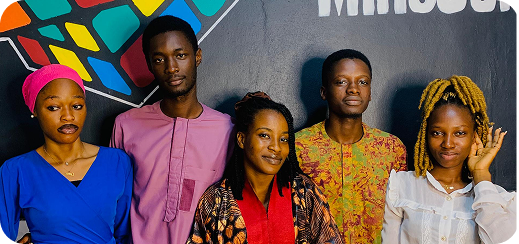
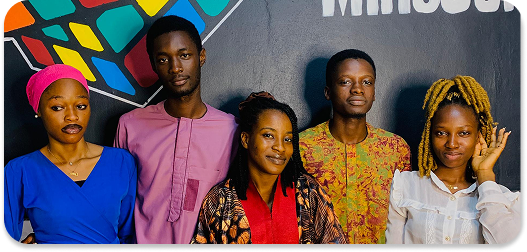
feat: added responsiveness to services page

diff --git a/src/services/services.css b/src/services/services.css
@@ -1,92 +1,238 @@
-body{
-    font-family: 'Palanquin Dark', sans-serif;
-    color: #333;
-    /* margin: 30px; */
-    margin-left: 20px;
-    padding-left: 20px;
+/* Import Palanquin fonts */
+@import url('https://fonts.googleapis.com/css2?family=Palanquin:wght@400;500;600;700&family=Palanquin+Dark:wght@400;500;600;700&display=swap');
+
+body {
+    margin: 0;
+    font-family: "Palanquin", sans-serif;
+    padding: 3rem 2rem;
+    background: #ffffff;
+    min-height: 100vh;
+    line-height: 1.6;
 }
-h1 {
+
+h1{
     color: #1E2551;
-    font-size: 40px;
+    font-family: "Palanquin Dark", sans-serif;
+    font-size: 64px;
+    font-weight: 400;
+    text-align: left;
+    /* align similarly to courses (keeps visual rhythm across pages) */
+    margin: 0 0 50px 150px;
+    text-shadow: 4px 5px 4px rgba(0, 0, 0, 0.3);
 }
-h1:hover {
+
+#main{
+    display: flex;
+    flex-direction: column;
+    gap: 50px;
+    max-width: 1800px;
+    margin: 0 auto;
+}
+
+/* Service sections */
+.section-1, .section-2 {
+    display: flex;
+    flex-direction: column;
+    gap: 20px;
+}
+
+
+.bootcamp, .student{
+    color: #000000;
+    font-family: "Palanquin Dark", sans-serif;
+    font-size: 32px;
+    font-weight: 400;
+    text-transform: uppercase;
+    margin-left: 150px;
+}
+
+/* .bootcamp:hover, .student:hover {
     text-decoration: underline;
     text-decoration-color: #1877F2;
     text-decoration-thickness: 3px;
-}   
-.service {
-    display: block;
-}
-/* ... */
-.bootcamp {
-    margin-left: 10px;
-}
-.bootcamp:hover {
-    text-decoration: underline;
-    text-decoration-color:#1877F2;
-    text-decoration-thickness: 2px;
-}
-.section-1 {
-    margin-top: 10px;
-}
-.block-1 {
+} */
+
+.block-1, .block-2 {
     display: flex;
-    gap: 30px;
+    gap: 0px;
+    align-items: flex-start;
+    margin: 0 150px;
 }
-.pic-1 {
-    background-color: #4985d4;
-    width: 370px;
-    height: 200px;
-    box-sizing: border-box;
+
+.pic-1, .pic-2 {
+    /* background-color: #4985d4; */
+    width: 80%;
+    height: 80%;
+    border-radius: 20px;
+    overflow: hidden;
+    /* box-shadow: 0px 8px 16px rgba(0, 0, 0, 0.2); */
+    transition: transform 0.3s ease;
+}
+
+.pic-1:hover, .pic-2:hover {
+    transform: translateY(-1px);
+}
+
+.pic-1 img, .pic-2 img {
+    width: 80%;
+    height: 80%;
+    object-fit: cover;
     border-radius: 20px;
 }
-.pic-1 img {
-    width: 370px;
-    height: 200px;
-    object-fit: cover; /* Makes sure the image fills the box and crops excess */
-    border-radius: 20px; /* Match the parent's border-radius */
+
+.text-1, .text-2 {
+    color: #333333;
+    font-family: "Palanquin", sans-serif;
+    font-size: 18px;
+    font-weight: 400;
+    line-height: 2;
+    flex: 2;
+    text-align: justify;
+    min-width: 500px;
 }
-.text-1 {
-    color: #000;
-    font-size: px;
-    font-weight: px;
-    /* margin-left: 30px; */
-    margin-top: 30px;
+
+.text-1{
+    margin-top: 8%;
 }
-/* ... */
-.student {
-    margin-left: 10px;
+
+.text-2{
+    margin-top: 10%;
 }
-.student:hover {
-    text-decoration: underline;
-    text-decoration-color:#1877F2;
-    text-decoration-thickness: 2px;
+
+/* Tablet breakpoint */
+@media (max-width: 1200px) {
+    h1 {
+        font-size: 56px;
+        margin: 0 0 40px 20px;
+    }
+    
+    .bootcamp, .student {
+        font-size: 28px;
+        margin-left: 20px;
+    }
+    
+    .block-1, .block-2 {
+        margin: 0 20px;
+        gap: 20px;
+        align-items: flex-start;
+    }
+    
+    .pic-1, .pic-2 {
+        width: 350px;
+        height: auto;
+        flex-shrink: 0;
+    }
+    
+    .pic-1 img, .pic-2 img {
+        width: 100%;
+        height: auto;
+        border-radius: 20px;
+    }
+    
+    .text-1, .text-2 {
+        font-size: 16px;
+        flex: 1;
+        min-width: 300px;
+        margin-top: 0;
+    }
+    
+    .text-1 {
+        margin-top: 5%;
+    }
+    
+    .text-2 {
+        margin-top: 7%;
+    }
 }
-.section-2 {
-    margin-top: 20px;
+
+/* Mobile tablet breakpoint */
+@media (max-width: 768px) {
+    body {
+        padding: 2rem 1rem;
+    }
+    
+    h1 {
+        font-size: 48px;
+        text-align: center;
+        margin: 0 0 30px 0;
+        text-shadow: 2px 3px 4px rgba(0, 0, 0, 0.3);
+    }
+    
+    .bootcamp, .student {
+        font-size: 24px;
+        margin-left: 30px;
+        text-align: left;
+    }
+    
+    .block-1, .block-2 {
+        flex-direction: column;
+        align-items: center;
+        margin: 0 10px;
+        gap: 20px;
+    }
+    
+    .pic-1, .pic-2 {
+        width: 100%;
+        max-width: 350px;
+        height: auto;
+    }
+    
+    .pic-1 img, .pic-2 img {
+        width: 100%;
+        height: auto;
+        border-radius: 20px;
+    }
+    
+    .text-1, .text-2 {
+        font-size: 15px;
+        text-align: left;
+        margin-top: 0;
+        margin-left: 6%;
+        min-width: auto;
+        width: 100%;
+    }
 }
-.block-2 {
-    display: flex;
-    gap: 30px;
-    /* margin-top: 20px; */
-}
-.pic-2 {
-    background-color: #4985d4;
-    width: 370px;
-    height: 200px;
-    box-sizing: border-box;
-    border-radius: 20px;
-}
-.pic-2 img {
-    width: 370px;
-    height: 200px;
-    object-fit: cover; /* Makes sure the image fills the box and crops excess */
-    border-radius: 20px; /* Match the parent's border-radius */
-}
-.text-2 {
-    color: #000;
-    font-size: px;
-    font-weight: px;
-    /* margin-left: 30px; */
-    margin-top: 30px;
+
+/* Mobile breakpoint */
+@media (max-width: 480px) {
+    body {
+        padding: 1.5rem 0.5rem;
+    }
+    
+    h1 {
+        font-size: 36px;
+        margin: 0 0 70px 0;
+        text-shadow: 2px 2px 3px rgba(0, 0, 0, 0.3);
+    }
+    
+    .bootcamp, .student {
+        font-size: 20px;
+        margin-left: 10%;
+        margin-bottom: -18px;
+    }
+    
+    .block-1, .block-2 {
+        margin: 0 5px;
+        gap: 15px;
+    }
+    
+    .pic-1, .pic-2 {
+        width: 100%;
+        max-width: 280px;
+        height: auto;
+    }
+    
+    .pic-1 img, .pic-2 img {
+        width: 100%;
+        height: auto;
+        border-radius: 20px;
+    }
+    
+    .text-1, .text-2 {
+        font-size: 14px;
+        line-height: 1.8;
+        margin-top: 1%;
+        min-width: auto;
+        width: 84%;
+    }
 }

diff --git a/src/services/services.html b/src/services/services.html
@@ -13,8 +13,7 @@
     </head>
     <body>
         <h1>Our Services</h1>
-    
-        <div class="service">
+        <div id="main">
             
             <div class="section-1">
                 <div class="bootcamp">BOOTCAMPS</div>
@@ -49,7 +48,6 @@
                             xxxxxxxxxxxxxxxxxxxxxxxxxxxxxxxxxxxxx
                     </div>
                 </div>
-            </div>
         </div>
     </body>
 </html>
